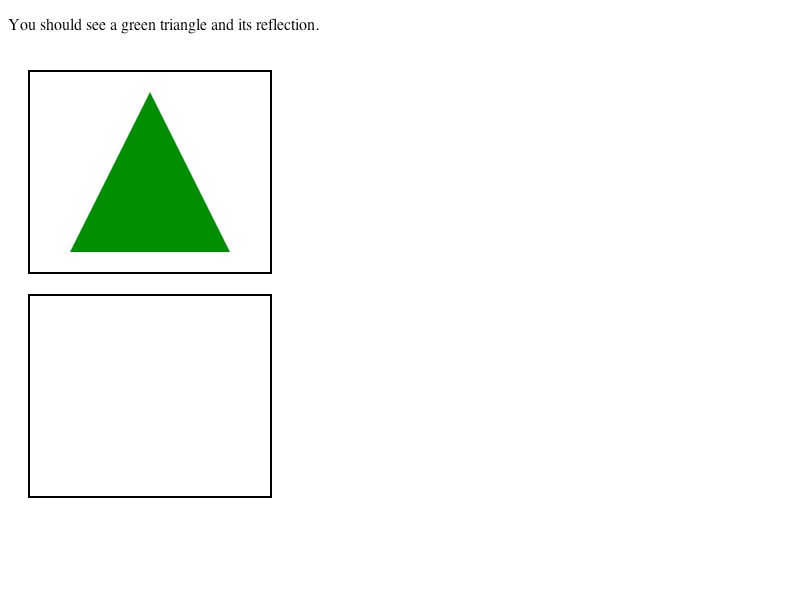
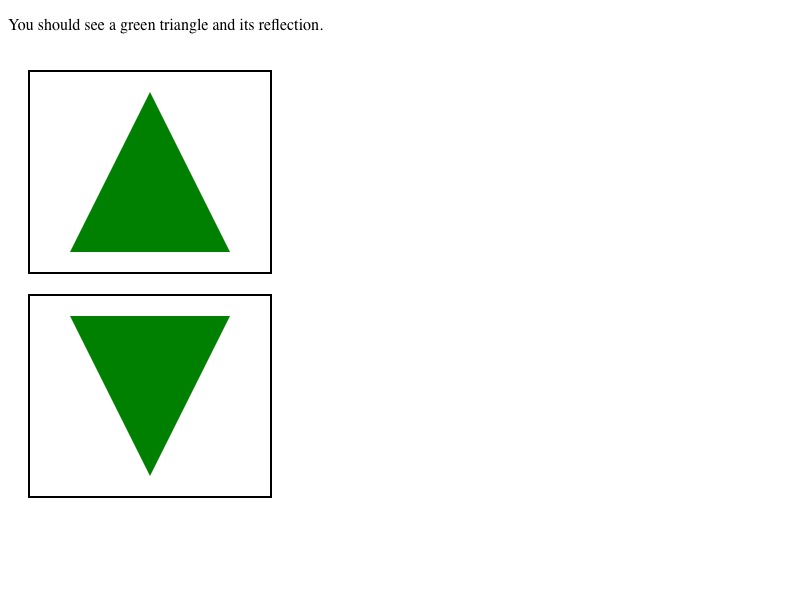
REGRESSION: WebGL doesn't show up in CSS reflections https://bugs.webkit.org/show_bug.cgi?id=76489
Patch by Antoine Quint <graouts@apple.com> on 2016-06-03
Reviewed by Dean Jackson.

Source/WebCore:

The WebGLLayer needs to notify its owning GraphicsLayer that it was displayed
such that its clones, in GraphicsLayerCA::layerDidDisplay, may have their contents
updated to match that layer's contents. The test at compositing/webgl/webgl-reflection.html
already covers this test and its expectation on Mac has been updated.

* platform/graphics/mac/WebGLLayer.mm:
(-[WebGLLayer display]):

LayoutTests:

Update the expected rendering to contain the reflected WebGL <canvas>.

* platform/mac/compositing/webgl/webgl-reflection-expected.png:

git-svn-id: https://svn.webkit.org/repository/webkit/trunk@201639 268f45cc-cd09-0410-ab3c-d52691b4dbfc

Changed region(s): [[0.0938, 0.51, 0.2812, 0.78], [0.0, 0.03, 0.4062, 0.06]]

diff --git a/Source/WebCore/platform/graphics/mac/WebGLLayer.mm b/Source/WebCore/platform/graphics/mac/WebGLLayer.mm
@@ -32,6 +32,8 @@
 #import "GraphicsContext3D.h"
 #import "GraphicsContextCG.h"
 #import "GraphicsLayer.h"
+#import "GraphicsLayerCA.h"
+#import "PlatformCALayer.h"
 #import <wtf/FastMalloc.h>
 #import <wtf/RetainPtr.h>
 
@@ -179,6 +181,9 @@ static void freeData(void *, const void *data, size_t /* size */)
     [super display];
 #endif
     _context->markLayerComposited();
+    PlatformCALayer* layer = PlatformCALayer::platformCALayer(self);
+    if (layer && layer->owner())
+        layer->owner()->platformCALayerLayerDidDisplay(layer);
 }
 
 @end
